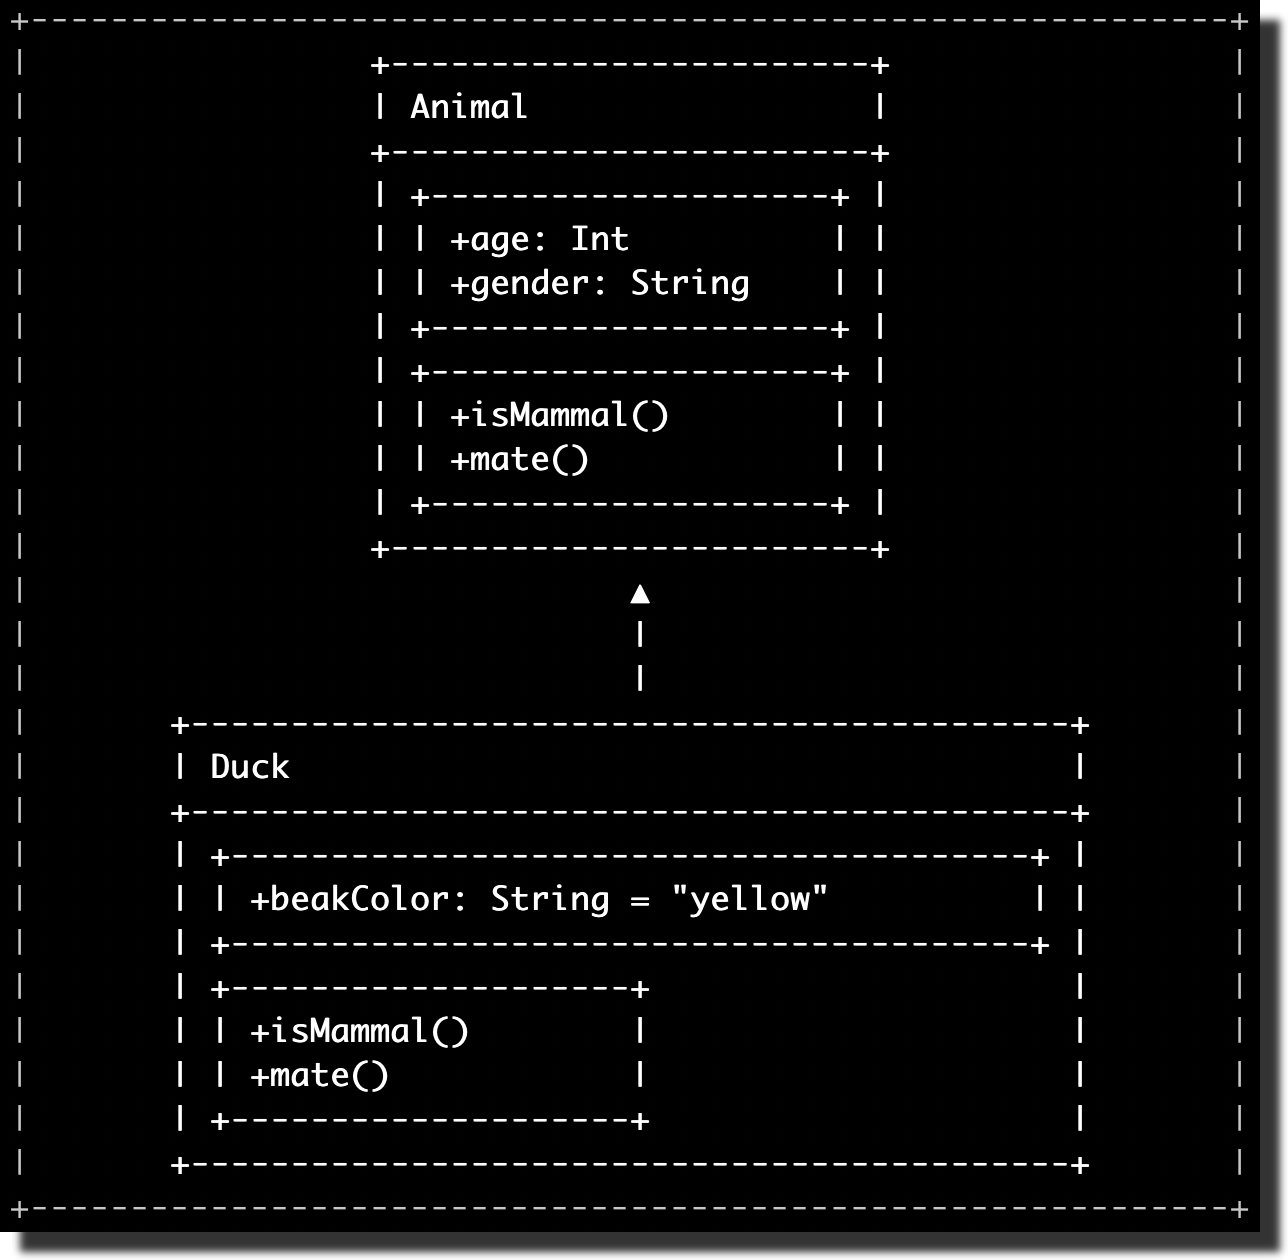
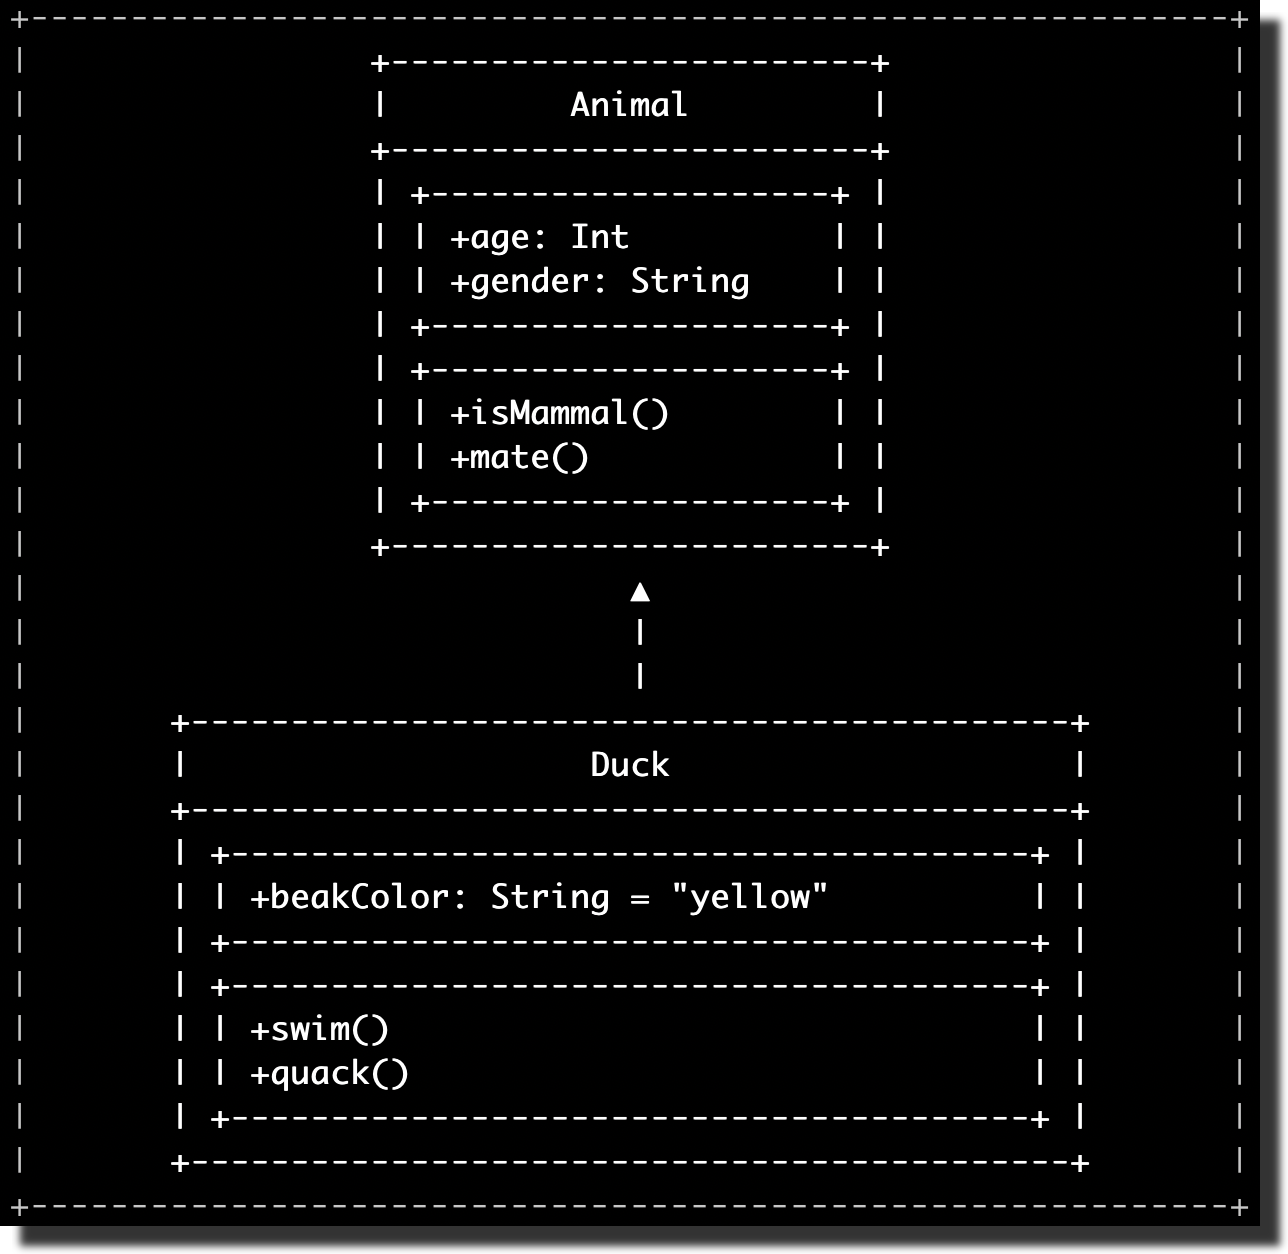
Updated class diagram sample - centered the image

diff --git a/samples/class_diagram.cpp b/samples/class_diagram.cpp
@@ -3,20 +3,25 @@ using namespace tabulate;
 
 int main() {
     Table class_diagram;
+    // Global styling
     class_diagram.format()
       .font_style({FontStyle::bold})
       .font_align(FontAlign::center)
       .width(60);
 
+    // Animal class
     Table animal;
     animal.add_row({"Animal"});
+    animal[0].format().font_align(FontAlign::center);
 
+    // Animal properties nested table
     Table animal_properties;
     animal_properties.format().width(20);
     animal_properties.add_row({"+age: Int"});
     animal_properties.add_row({"+gender: String"});
     animal_properties[1].format().hide_border_top();
 
+    // Animal methods nested table
     Table animal_methods;
     animal_methods.format().width(20);
     animal_methods.add_row({"+isMammal()"});
@@ -29,6 +34,8 @@ int main() {
 
     class_diagram.add_row({animal});
 
+    // Add rows in the class diagram for the up-facing arrow
+    // THanks to center alignment, these will align just fine
     class_diagram.add_row({"▲"});
     class_diagram[1].format().hide_border_top();
     class_diagram.add_row({"|"});
@@ -36,13 +43,17 @@ int main() {
     class_diagram.add_row({"|"});
     class_diagram[3].format().hide_border_top();
 
+    // Duck class
     Table duck;
     duck.add_row({"Duck"});
+    duck[0].format().font_align(FontAlign::center);
 
+    // Duck proeperties nested table
     Table duck_properties;
     duck_properties.format().width(40);
     duck_properties.add_row({"+beakColor: String = \"yellow\""});
 
+    // Duck methods nested table
     Table duck_methods;
     duck_methods.format().width(40);
     duck_methods.add_row({"+swim()"});
